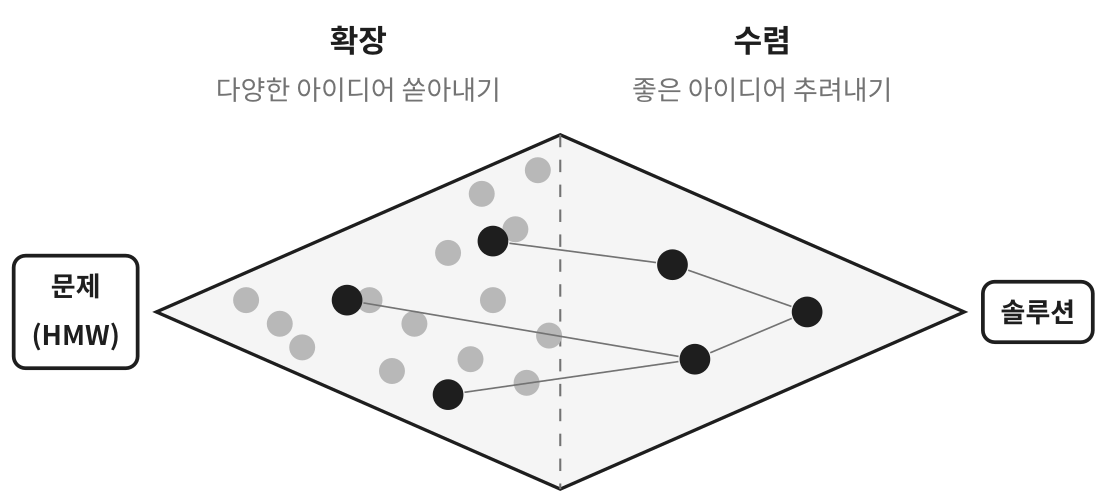
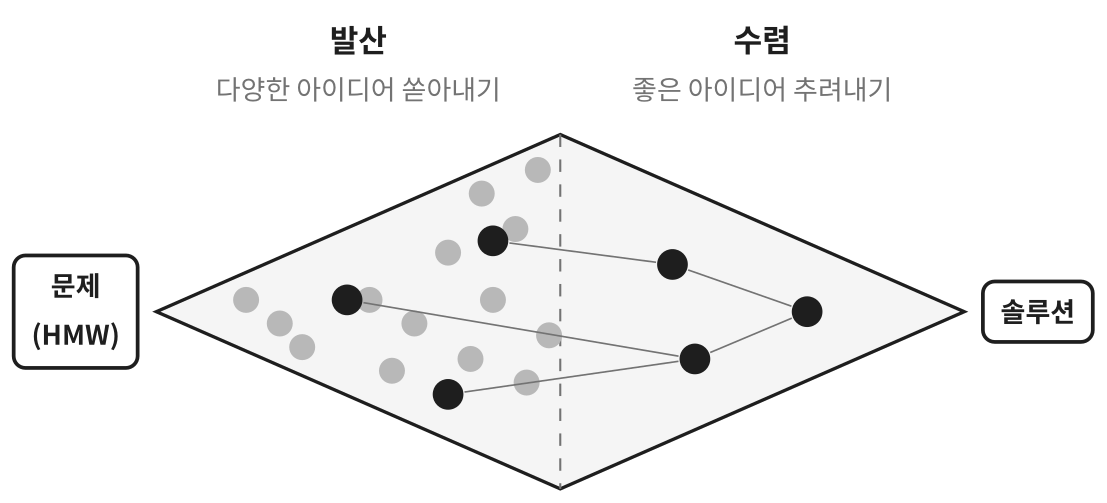
Unify terminology and notation across the book

diff --git a/book/cover.tex b/book/cover.tex
@@ -100,14 +100,14 @@
     \node[anchor=north west, text width=96mm, align=justify, inner sep=0,
           text=ink, font=\fontsize{8.5}{14.5}\selectfont]
       at (16, \trimH-28) {%
-        이 책은 사용자 중심으로 프로덕트를 디자인하는 방법을 설명한다.
+        이 소책자는 사용자 중심으로 제품을 디자인하는 방법을 설명한다.
         상황 파악에서 시작해 니즈 도출, 스케치, 프로토타이핑,
         그리고 디자인 커뮤니케이션과 리포트 작성까지,
         챕터를 따라가면 제품 하나를 디자인할 수 있도록 구성했다.\par\medskip
         \textsf{\bfseries 이런 분들에게}\par\smallskip
         · UX 디자이너로 일을 하고 싶은 학생 또는 디자이너\par
         · 구현 뿐만 아니라 서비스 설계까지 하고 싶은 개발자\par
-        · 사용자 중심으로 프로덕트를 만들고 싶은 모든 사람};
+        · 사용자 중심으로 제품을 만들고 싶은 모든 사람};
     \node[anchor=south west, inner sep=0, text=ink2,
           font=\sffamily\fontsize{7.5}{9}\selectfont]
       at (16, 16) {\booktitle\quad\bookauthor};

diff --git a/figures/hmw-voting.tex b/figures/hmw-voting.tex
@@ -13,7 +13,7 @@
   }
   \hmw{0}{0}{picked}{5}{어떻게 하면 주문 후에 고객들이 카페 안쪽으로 들어가게 할 수 있을까?}
   \hmw{1}{0}{picked}{4}{어떻게 하면 주문을 카페 안쪽에서 할 수 있을까?}
-  \hmw{2}{0}{picked}{3}{어떻게 하면 카페 밖에서도 주문을 할 수 있게 할까?}
+  \hmw{2}{0}{picked}{3}{어떻게 하면 카페 밖에서도 주문을 할 수 있을까?}
   \hmw{0}{1}{card}{2}{어떻게 하면 음료가 나오는 시간을 고객이 알 수 있을까?}
   \hmw{1}{1}{card}{1}{어떻게 하면 메뉴 고민 시간을 줄일 수 있을까?}
   \hmw{2}{1}{card}{1}{어떻게 하면 결제를 더 빨리 끝낼 수 있을까?}

diff --git a/figures/diverge-converge.tex b/figures/diverge-converge.tex
@@ -28,7 +28,7 @@
   \node[endpt, anchor=east] at ($(L)+(-1.5mm,0)$) {문제\\(HMW)};
   \node[endpt, anchor=west] at ($(R)+(1.5mm,0)$) {솔루션};
 
-  \node[font=\figtext\bfseries, anchor=south] at (18mm,20.5mm) {확장};
+  \node[font=\figtext\bfseries, anchor=south] at (18mm,20.5mm) {발산};
   \node[font=\figsmall, text=mid, anchor=south] at (18mm,16.5mm) {다양한 아이디어 쏟아내기};
   \node[font=\figtext\bfseries, anchor=south] at (54mm,20.5mm) {수렴};
   \node[font=\figsmall, text=mid, anchor=south] at (54mm,16.5mm) {좋은 아이디어 추려내기};

diff --git a/chapter4.md b/chapter4.md
@@ -1,10 +1,10 @@
 # Chapter 4: Low-fi 프로토타이핑
 
-이제 직접 프로덕트를 구현해 볼 차례이다. 하지만 바로 판매 또는 배포할 수 있는 수준의 프로덕트를 만들지 않는다. 디자인팀이 현재까지 디자인한 프로덕트가 실제로 디자인팀이 원하는 사용자 경험을 제공하는지 테스트를 할 필요가 있다. 그 첫 단계가 저수준(Low-fi) 프로토타이핑이다. 저수준 프로토타이핑은 최소한의 비용으로 프로덕트가 제공할 경험을 간접적으로 체험할 수 있는 프로토타입을 만드는 것을 말한다. 이 과정을 통해서 디자인에 문제가 없는지 기초적인 수준에서 확인을 하고 문제가 있는 경우 수정을 한다.
+이제 직접 제품을 구현해 볼 차례이다. 하지만 바로 판매 또는 배포할 수 있는 수준의 제품을 만들지 않는다. 디자인팀이 현재까지 디자인한 제품이 실제로 디자인팀이 원하는 사용자 경험을 제공하는지 테스트를 할 필요가 있다. 그 첫 단계가 저충실도 (Low-fi) 프로토타이핑이다. 저충실도 프로토타이핑은 최소한의 비용으로 제품이 제공할 경험을 간접적으로 체험할 수 있는 프로토타입을 만드는 것을 말한다. 이 과정을 통해서 디자인에 문제가 없는지 기초적인 수준에서 확인을 하고 문제가 있는 경우 수정을 한다.
 
 ## 페이퍼 프로토타입
 
-소프트웨어 제품에서 많이 사용하는 방법은 페이퍼 프로토타이핑이다. 페이퍼 프로토타이핑은 종이로 인터페이스를 구성하고, 사람이 종이 인터페이스를 직접 조작하며 소프트웨어를 프로토타이핑하는 방식이다. [한메일의 페이퍼 프로토타입 영상](https://youtu.be/GrV2SZuRPv0)을 보면 직관적으로 이해가 될 것이다. 영상을 보면 종이로 만들어진 인터페이스가 있고 사용자가 손으로 인터페이스를 조작한다. 그러면 다른 사람이 컴퓨터가 되어서 인터페이스를 바꾼다. 이러한 과정을 통해서 프로덕트를 사용하는 경험은 어떤지, 사용성의 문제는 없는지 디자인 초기 단계에서 확인할 수 있다.
+소프트웨어 제품에서 많이 사용하는 방법은 페이퍼 프로토타이핑이다. 페이퍼 프로토타이핑은 종이로 인터페이스를 구성하고, 사람이 종이 인터페이스를 직접 조작하며 소프트웨어를 프로토타이핑하는 방식이다. [한메일의 페이퍼 프로토타입 영상](https://youtu.be/GrV2SZuRPv0)을 보면 직관적으로 이해가 될 것이다. 영상을 보면 종이로 만들어진 인터페이스가 있고 사용자가 손으로 인터페이스를 조작한다. 그러면 다른 사람이 컴퓨터가 되어서 인터페이스를 바꾼다. 이러한 과정을 통해서 제품을 사용하는 경험은 어떤지, 사용성의 문제는 없는지 디자인 초기 단계에서 확인할 수 있다.
 
 ![한메일 페이퍼 프로토타입 영상의 한 장면. 출처: 윤석찬, 「한메일 종이 Ajax UX 프로토타입」, YouTube, 2007 (0:14–0:20)](img/video-hanmail-paper-prototype.png)
 
@@ -12,20 +12,20 @@
 
 위와 같이 페이퍼 프로토타입을 만들었으면, 프로토타입을 통하여 사용성을 평가해야 한다. 여기서 말하는 사용성은 넓은 범위의 사용성을 의미한다. 인터페이스의 문제를 파악하는 것부터 아이디어 자체에 대한 평가까지 이루어져야 한다.
 
-사용성 평가에서 중요한 것은 다른 과정들과 마찬가지로 목적을 분명하게 하는 것이다. 그에 따라서 어떤 질문들을 해야 할지 정해지고 사용성 평가의 방식이 정해진다. 전반적인 틀은 평가 참가자가 프로토타입을 사용하게 해보고 참가자를 통해서 디자인 팀은 궁금한 점들을 해소하는 것이다. 디자인팀은 참가자에게 직접적인 질문을 할 수도 있고 관찰을 할 수도 있다. 관련해서 다양한 방법론들이 있는데, 앞서 소개한 '[디자인 방법론 불변의 법칙 100가지](https://product.kyobobook.co.kr/detail/S000001226665)', '[유저 리서치: UX를 위한 사용자 조사의 모든 것](https://product.kyobobook.co.kr/detail/S000001913024)'와 같은 책들에 구체적인 방법론들이 소개되어 있다.
+사용성 평가에서 중요한 것은 다른 과정들과 마찬가지로 목적을 분명하게 하는 것이다. 그에 따라서 어떤 질문들을 해야 할지 정해지고 사용성 평가의 방식이 정해진다. 전반적인 틀은 평가 참가자가 프로토타입을 사용하게 해보고 참가자를 통해서 디자인팀은 궁금한 점들을 해소하는 것이다. 디자인팀은 참가자에게 직접적인 질문을 할 수도 있고 관찰을 할 수도 있다. 관련해서 다양한 방법론들이 있는데, 앞서 소개한 '[디자인 방법론 불변의 법칙 100가지](https://product.kyobobook.co.kr/detail/S000001226665)', '[유저 리서치: UX를 위한 사용자 조사의 모든 것](https://product.kyobobook.co.kr/detail/S000001913024)'와 같은 책들에 구체적인 방법론들이 소개되어 있다.
 
 ## 경험 프로토타이핑
 
-만약 프로덕트가 물리적인 요소 (공간이나 물체)를 포함한다면 사용자 경험을 온전히 제공하는 것이 어려울 수 있다. `경험커피`의 경우에도 문제 자체가 공간과 얽혀 있기 때문에 저수준 프로토타입을 테스트하더라도 카페 공간 내에서 실제 사용자 동선을 고려할 필요가 있다. 이런 상황에 알맞은 디자인 방법으로는 [경험 프로토타이핑 (Experience Prototyping)](https://dl.acm.org/doi/pdf/10.1145/347642.347802)이 있다. 경험 프로토타이핑은 디자인하고자 하는 경험의 단순한 버전을 쉽고 빠르게 경험하는 것이다. 그 과정을 통해서 최종적으로 디자인하고자 하는 경험이 디자인팀이 원하는 경험인지 아닌지 미리 판단을 할 수 있다. [Palm Pilot](<https://en.wikipedia.org/wiki/Palm_(PDA)>)을 만들 당시에 모바일 기기가 널리 퍼져있던 시기가 아니었기에 PDA를 사용하는 경험이 어떨지 알 수가 없었다. 그러한 경험을 _프로토타이핑_ 해보기 위해서 [Jeff Hawkins는 비슷한 크기의 나무 블록을 들고 다니면서 동작하는 Palm Pilot처럼 사용해 보았다고 한다](https://albertosavoia.medium.com/the-palm-pilot-story-1a3424d2ffe4). Google 글래스도 [비슷한 디자인 과정을 거쳐서](https://youtu.be/d5_h1VuwD6g) 디자인되었다. [Rapid Prototyping](https://maze.co/blog/rapid-prototyping/)이라는 개념도 있는데 궁극적인 목적은 유사하다.
+만약 제품이 물리적인 요소 (공간이나 물체)를 포함한다면 사용자 경험을 온전히 제공하는 것이 어려울 수 있다. `경험커피`의 경우에도 문제 자체가 공간과 얽혀 있기 때문에 저충실도 프로토타입을 테스트하더라도 카페 공간 내에서 실제 사용자 동선을 고려할 필요가 있다. 이런 상황에 알맞은 디자인 방법으로는 [경험 프로토타이핑 (Experience Prototyping)](https://dl.acm.org/doi/pdf/10.1145/347642.347802)이 있다. 경험 프로토타이핑은 디자인하고자 하는 경험의 단순한 버전을 쉽고 빠르게 경험하는 것이다. 그 과정을 통해서 최종적으로 디자인하고자 하는 경험이 디자인팀이 원하는 경험인지 아닌지 미리 판단을 할 수 있다. [Palm Pilot](<https://en.wikipedia.org/wiki/Palm_(PDA)>)을 만들 당시에 모바일 기기가 널리 퍼져있던 시기가 아니었기에 PDA를 사용하는 경험이 어떨지 알 수가 없었다. 그러한 경험을 _프로토타이핑_ 해보기 위해서 [Jeff Hawkins는 비슷한 크기의 나무 블록을 들고 다니면서 동작하는 Palm Pilot처럼 사용해 보았다고 한다](https://albertosavoia.medium.com/the-palm-pilot-story-1a3424d2ffe4). 구글 글래스도 [비슷한 디자인 과정을 거쳐서](https://youtu.be/d5_h1VuwD6g) 디자인되었다. [Rapid Prototyping](https://maze.co/blog/rapid-prototyping/)이라는 개념도 있는데 궁극적인 목적은 유사하다.
 
 ![구글 글래스의 첫 프로토타입. 옷걸이, 시트 프로텍터, 피코 프로젝터, 넷북으로 만들었다. 출처: Tom Chi, 「Rapid prototyping Google Glass」, TED-Ed, 2013 (1:24)](img/video-glass-rule1.png)
 
-사용성 평가나 경험 프로토타이핑을 통해서 문제가 발생을 한다면 문제가 모두 해결될 때까지 프로덕트 디자인을 수정하고 다시 이 과정을 수행해야 한다.
+사용성 평가나 경험 프로토타이핑을 통해서 문제가 발생을 한다면 문제가 모두 해결될 때까지 제품 디자인을 수정하고 다시 이 과정을 수행해야 한다.
 
 ## 제약 사항 (Constraints)
 
-제품을 만드는 상황에서도 제약사항이 많이 생긴다. 기존에 존재하는 프로덕트 내에서 하위 프로덕트를 만든다고 한다면, 당연히 상위 프로덕트에 의한 제약사항들이 생길 수 있다. 인스타그램에서 스토리 프로덕트를 만든다고 생각해보자. 인스타그램 고유의 틀을 벗어나는 프로덕트를 만들 수는 없다. 제로 상태에서 새로운 프로덕트를 만든다고 해도 마찬가지다. 기술력이 부족할 수도 있고, 자본이 없을 수도 있고, 시간이 촉박할 수도 있다. 제품을 만들기 위한 리소스는 항상 제한적이다. 이렇게 제약 사항은 디자인에 필수불가결한 존재이다. 제약 사항 때문에 디자인을 하는 것이 어렵다고 생각하겠지만 제약 사항이 없으면 디자인도 필요가 없다. 디자인은 제약사항 속에서 최적의 답을 찾는 과정이다.
+제품을 만드는 상황에서도 제약 사항이 많이 생긴다. 기존에 존재하는 제품 내에서 하위 제품을 만든다고 한다면, 당연히 상위 제품에 의한 제약 사항들이 생길 수 있다. 인스타그램에서 스토리라는 하위 제품을 만든다고 생각해보자. 인스타그램 고유의 틀을 벗어나는 제품을 만들 수는 없다. 제로 상태에서 새로운 제품을 만든다고 해도 마찬가지다. 기술력이 부족할 수도 있고, 자본이 없을 수도 있고, 시간이 촉박할 수도 있다. 제품을 만들기 위한 리소스는 항상 제한적이다. 이렇게 제약 사항은 디자인에 필수불가결한 존재이다. 제약 사항 때문에 디자인을 하는 것이 어렵다고 생각하겠지만 제약 사항이 없으면 디자인도 필요가 없다. 디자인은 제약 사항 속에서 최적의 답을 찾는 과정이다.
 
-그럼 이러한 제약 사항을 어느 단계에서 고려해야 할까? 제약 사항은 제품을 구체화해 나가는 과정에서 점진적으로 고려하는 것이 좋다. 그 시작점이 첫 프로토타이핑을 하는 과정이다. 프로토타이핑을 하면서 현재 우리가 가지고 있는 불변의 제약 사항들은 무엇인지 고민해 보고 그것을 고려해서 프로토타이핑을 해야 한다. 실제로 구글 글래스의 예시도 보면 찰흙을 이용해서 구글 글래스에 들어갈 전자 부품을 흉내 내는데 그것이 시작 단계에서 구글 글래스 디자인에 중요한 역할을 한다. 마법과 같이 기존의 안경 속에 컴퓨터와 배터리가 모두 들어간다고 가정을 하고 프로토타이핑을 하지 않는다. 하지만 그렇다고 해서 너무 디자인 프로세스 초반부터 제약사항을 많이 고려하면 새로운 아이디어들을 전개하는 것이 어려울 수 있다. 구글 글래스의 예시를 보면 전자 부품의 무게 정도만 고려하지 어떤 모양으로 안경에 부착되어야 하는지까지는 설계하지 않는다. 그것은 이후 단계에서 결정해도 되는 것이기 때문이다. 단지 안경의 어디에 위치하는 것이 좋은지를 알아보는 정도로 그친다. 이렇게 적절한 선의 제약사항들을 고려해서 프로토타이핑을 해야 한다. 이후 디자인 프로세스에서는 더 많은 제약 사항들을 점진적으로 적용하며 디자인을 해 나가야 한다.
+그럼 이러한 제약 사항을 어느 단계에서 고려해야 할까? 제약 사항은 제품을 구체화해 나가는 과정에서 점진적으로 고려하는 것이 좋다. 그 시작점이 첫 프로토타이핑을 하는 과정이다. 프로토타이핑을 하면서 현재 우리가 가지고 있는 불변의 제약 사항들은 무엇인지 고민해 보고 그것을 고려해서 프로토타이핑을 해야 한다. 실제로 구글 글래스의 예시도 보면 찰흙을 이용해서 구글 글래스에 들어갈 전자 부품을 흉내 내는데 그것이 시작 단계에서 구글 글래스 디자인에 중요한 역할을 한다. 마법과 같이 기존의 안경 속에 컴퓨터와 배터리가 모두 들어간다고 가정을 하고 프로토타이핑을 하지 않는다. 하지만 그렇다고 해서 너무 디자인 프로세스 초반부터 제약 사항을 많이 고려하면 새로운 아이디어들을 전개하는 것이 어려울 수 있다. 구글 글래스의 예시를 보면 전자 부품의 무게 정도만 고려하지 어떤 모양으로 안경에 부착되어야 하는지까지는 설계하지 않는다. 그것은 이후 단계에서 결정해도 되는 것이기 때문이다. 단지 안경의 어디에 위치하는 것이 좋은지를 알아보는 정도로 그친다. 이렇게 적절한 선의 제약 사항들을 고려해서 프로토타이핑을 해야 한다. 이후 디자인 프로세스에서는 더 많은 제약 사항들을 점진적으로 적용하며 디자인을 해 나가야 한다.
 
 ![찰흙, 철사, 종이, 저울로 부품의 무게와 위치를 가늠하는 프로토타이핑. 출처: Tom Chi, 「Rapid prototyping Google Glass」, TED-Ed, 2013 (5:18)](img/video-glass-rule3.png)

diff --git a/README.md b/README.md
@@ -1,12 +1,12 @@
 # 프로덕트를 처음부터 디자인하는 방법
 
-이 글 모음은 사용자 중심으로 프로덕트를 디자인하는 방법들을 설명한다. 책의 형태를 빌려 챕터로 구분되어 있다. 책은 아니지만 편의상 이 글 모음을 소책자라 일컫겠다.
+이 글 모음은 사용자 중심으로 제품을 디자인하는 방법들을 설명한다. 책의 형태를 빌려 챕터로 구분되어 있다. 책은 아니지만 편의상 이 글 모음을 소책자라 일컫겠다.
 
 ## 소책자의 범위
 
-이 책에서 말하는 프로덕트는 주로 IT 프로덕트들을 말한다. 소프트웨어가 되겠다. 하지만 하드웨어 프로덕트에도 어느 정도 적용 가능한 부분이 있지 않을까 생각한다. 더불어서 이 책에서 말하는 디자인은 **설계**의 의미를 가지고 있다. 미적인 디자인에 대한 내용을 다루지는 않는다. 누군가는 이 프로세스를 기획이라고 말하기도 하지만 나는 개인적으로 기획이라는 단어보다는 설계라는 단어가 적절하다고 생각한다. 기획은 디자인 과정의 일부일 뿐이다.
+이 소책자에서 말하는 제품은 주로 IT 제품들을 말한다. 소프트웨어가 되겠다. 하지만 하드웨어 제품에도 어느 정도 적용 가능한 부분이 있지 않을까 생각한다. 더불어서 이 소책자에서 말하는 디자인은 **설계**의 의미를 가지고 있다. 미적인 디자인에 대한 내용을 다루지는 않는다. 누군가는 이 프로세스를 기획이라고 말하기도 하지만 나는 개인적으로 기획이라는 단어보다는 설계라는 단어가 적절하다고 생각한다. 기획은 디자인 과정의 일부일 뿐이다.
 
-프로덕트를 디자인하는 방법은 여러 가지가 있는데, 이 소책자는 **사용자 중심** 프로덕트 디자인 방법에 대해 다룬다. 사용자 중심이라는 단어가 잘 와닿지 않을 수 있다. 사용자 중심의 의미는 디자인 과정에서 사용자의 의견을 적극적으로 반영하는 것을 말한다. 하지만 이것은 사용자가 원하는 것을 만들어 주는 것과는 다르다. 사용자 중심 디자인이 아닌 방법의 예시로는 직관이나 고찰을 통한 장인정신에 입각한 디자인이 있을 수 있다. 분명 유효한 방법이라고 생각하지만 매우 다른 성격의 방법이기에 여기에서 다루지 않는다.
+제품을 디자인하는 방법은 여러 가지가 있는데, 이 소책자는 **사용자 중심** 프로덕트 디자인 방법에 대해 다룬다. 사용자 중심이라는 단어가 잘 와닿지 않을 수 있다. 사용자 중심의 의미는 디자인 과정에서 사용자의 의견을 적극적으로 반영하는 것을 말한다. 하지만 이것은 사용자가 원하는 것을 만들어 주는 것과는 다르다. 사용자 중심 디자인이 아닌 방법의 예시로는 직관이나 고찰을 통한 장인정신에 입각한 디자인이 있을 수 있다. 분명 유효한 방법이라고 생각하지만 매우 다른 성격의 방법이기에 여기에서 다루지 않는다.
 
 사용자 중심 디자인은 제품의 상업적 성공을 보장하지는 않는다. 상업적 성공에는 정말 다양한 요인들이 영향을 미친다. 타이밍도 중요하고 마케팅과 운영도 중요하다. 이런 요소들은 중요하지만 프로덕트 디자인과 관련이 적기 때문에 다루지 않는다. 정리하면, 사용자 중심 디자인은 좋은 제품을 만들기 위한 방법이고, 좋은 제품이 곧 상업적 성공으로 이어지는 것은 아니다.
 
@@ -14,42 +14,42 @@
 
 디자인뿐만 아니라 구현도 매우 중요하다. 만들지 않는다면 의미가 없는 디자인이라고 생각한다. 하지만 여기에서는 구현에 대한 이야기는 하지 않는다. 다른 곳에서 이야기를 할 수 있지 않을까 생각한다.
 
-책의 상당 부분은 저자의 생각이다. 특히 단정적으로 이야기하는 문장들이 의견이 아니라 사실처럼 느껴질 수 있는데, 레퍼런스가 없는 내용은 모두 저자의 생각이다. 예를 들어 "도메인 지식을 습득하고 이해관계자를 파악하는 것은 모든 상황에서 필요하다."와 같은 문장이 그렇다. 레퍼런스가 있는 내용은 레퍼런스를 표기했다.
+소책자의 상당 부분은 저자의 생각이다. 특히 단정적으로 이야기하는 문장들이 의견이 아니라 사실처럼 느껴질 수 있는데, 레퍼런스가 없는 내용은 모두 저자의 생각이다. 예를 들어 "도메인 지식을 습득하고 이해관계자를 파악하는 것은 모든 상황에서 필요하다."와 같은 문장이 그렇다. 레퍼런스가 있는 내용은 레퍼런스를 표기했다.
 
-책에서 `디자인팀`이라는 표현을 사용하는데 디자이너만을 지칭하는 것은 아니다. 프로덕트를 디자인하는 팀을 의미하며 이 팀에는 개발자, 디자이너, 마케터 등 여러 전문가들이 포함될 수 있고, 다양한 사람들이 포함될수록 좋다.
+소책자에서 `디자인팀`이라는 표현을 사용하는데 디자이너만을 지칭하는 것은 아니다. 제품을 디자인하는 팀을 의미하며 이 팀에는 개발자, 디자이너, 마케터 등 여러 전문가들이 포함될 수 있고, 다양한 사람들이 포함될수록 좋다.
 
 ## 누구를 위한 소책자인가?
 
-이 책은 회사에서 프로덕트를 디자인해 본 경험이 별로 없는 사람들을 위해서 썼다. 다음과 같은 사람들에게 도움이 될 수 있을 것이라 생각한다.
+이 소책자는 회사에서 제품을 디자인해 본 경험이 별로 없는 사람들을 위해서 썼다. 다음과 같은 사람들에게 도움이 될 수 있을 것이라 생각한다.
 
 - UX 디자이너로 일을 하고 싶은 학생 또는 디자이너
 - 구현뿐만 아니라 서비스 설계까지 하고 싶은 개발자
-- 사용자 중심으로 프로덕트를 만들고 싶은 모든 사람
+- 사용자 중심으로 제품을 만들고 싶은 모든 사람
 
 ## 목차
 
 1. [상황 파악](chapter1.md)
 2. [니즈 도출](chapter2.md)
 3. [솔루션 및 사용자 경험 스케치](chapter3.md)
-4. [low-fi 프로토타이핑](chapter4.md)
-5. [mid-fi 프로토타이핑](chapter5.md)
+4. [Low-fi 프로토타이핑](chapter4.md)
+5. [Mid-fi 프로토타이핑](chapter5.md)
 6. [디자인 커뮤니케이션하기](chapter6.md)
-7. [리포트 작성](chapter7.md)
+7. [디자인 리포트 작성](chapter7.md)
 8. [끝없는 과정](chapter8.md)
 
 ### 구성에 관하여
 
-챕터를 따라 갔을 때 제품 하나를 디자인할 수 있는 형태로 구성하였다. 이러한 구성은 '[스프린트 - 제이크 냅 , 존 제라츠키 , 브레이든 코위츠](https://product.kyobobook.co.kr/detail/S000000597320)' 책에서 차용했다. 실제로 이 책의 내용을 많이 참고해서 이 소책자를 썼다.
+챕터를 따라 갔을 때 제품 하나를 디자인할 수 있는 형태로 구성하였다. 이러한 구성은 '[스프린트 - 제이크 냅, 존 제라츠키, 브레이든 코위츠](https://product.kyobobook.co.kr/detail/S000000597320)' 책에서 차용했다. 실제로 이 책의 내용을 많이 참고해서 이 소책자를 썼다.
 
 다만, 실제로 이런 프로세스를 따라가보면 알겠지만 선형적으로 진행되지는 않는다. 세 번째 단계를 했다가 다시 첫 단계로 가야 할 것 같을 수 있다. 그런 경우에는 다시 돌아갔다가 오는 것이 좋다. 디자인 프로세스가 어려운 이유는 선형적이지 않기 때문이다. 하지만 디자인팀은 보통 일이 단계별로 진행되기를 원한다. 바람과 실제 일어나는 일의 괴리가 우리를 불안하고 괴롭게 만들지만 원래 디자인은 비선형적인 프로세스라는 것을 이해하면 그런 불안감을 조금 덜 수 있다.
 
 ## 프로덕트 디자인에 대한 다른 글들과의 차이점
 
-프로덕트 디자인, UX 리서치에 대해서 이야기하는 자료나 글들은 매우 많고 그 범위가 방대하다. 하지만 경험이 별로 없는 상황에서 상업 제품을 만드는 사람을 위한 자료는 부족하다고 느꼈다. 디자인의 일반론에 대한 이야기를 하거나 ('[도널드 노먼의 디자인 심리학 - 도널드 노먼](https://product.kyobobook.co.kr/detail/S000001912962)', '[좋은 서비스 디자인 - 루 다운](https://product.kyobobook.co.kr/detail/S000001913039)'), 리서치에 초점을 맞추거나 ('[유저 리서치 - 스테파니 마시](https://product.kyobobook.co.kr/detail/S000001913024)'), 특정 방법론에 집중하거나 ('[고작 다섯 명이 한 말을 어떻게 믿어요? - 송라영](https://product.kyobobook.co.kr/detail/S000214928147)', '[A/B 테스트 - 론 코하비 , 다이앤 탕 , 야 쉬](https://product.kyobobook.co.kr/detail/S000060625360)'), 많은 경험을 요하는 방법('[스프린트 - 제이크 냅 , 존 제라츠키 , 브레이든 코위츠](https://product.kyobobook.co.kr/detail/S000000597320)')을 제시한다. 읽고 바로 행동으로 옮길 수 있는 자료가 있으면 좋겠다고 생각을 했다. 내가 알고 있는 제일 유사한 책은 '[린 UX - 제프 고델프 , 조시 세이던](https://product.kyobobook.co.kr/detail/S000211625721)' 이다. 다만 순서대로 따라가면서 프로젝트를 진행하는 것이 쉽지 않다고 느꼈다. '린 UX'보다 더 단순하면서 순서대로 따라가며 프로젝트를 진행할 수 있는 소책자가 필요하다고 생각했다.
+프로덕트 디자인, UX 리서치에 대해서 이야기하는 자료나 글들은 매우 많고 그 범위가 방대하다. 하지만 경험이 별로 없는 상황에서 상업 제품을 만드는 사람을 위한 자료는 부족하다고 느꼈다. 디자인의 일반론에 대한 이야기를 하거나 ('[도널드 노먼의 디자인 심리학 - 도널드 노먼](https://product.kyobobook.co.kr/detail/S000001912962)', '[좋은 서비스 디자인 - 루 다운](https://product.kyobobook.co.kr/detail/S000001913039)'), 리서치에 초점을 맞추거나 ('[유저 리서치 - 스테파니 마시](https://product.kyobobook.co.kr/detail/S000001913024)'), 특정 방법론에 집중하거나 ('[고작 다섯 명이 한 말을 어떻게 믿어요? - 송라영](https://product.kyobobook.co.kr/detail/S000214928147)', '[A/B 테스트 - 론 코하비, 다이앤 탕, 야 쉬](https://product.kyobobook.co.kr/detail/S000060625360)'), 많은 경험을 요하는 방법('[스프린트 - 제이크 냅, 존 제라츠키, 브레이든 코위츠](https://product.kyobobook.co.kr/detail/S000000597320)')을 제시한다. 읽고 바로 행동으로 옮길 수 있는 자료가 있으면 좋겠다고 생각을 했다. 내가 알고 있는 제일 유사한 책은 '[린 UX - 제프 고델프, 조시 세이던](https://product.kyobobook.co.kr/detail/S000211625721)' 이다. 다만 순서대로 따라가면서 프로젝트를 진행하는 것이 쉽지 않다고 느꼈다. '린 UX'보다 더 단순하면서 순서대로 따라가며 프로젝트를 진행할 수 있는 소책자가 필요하다고 생각했다.
 
 이 소책자는 디자인 기법들에 대해서 자세히 이야기하지 않는다. 거시적인 이야기가 많고, 구체적인 디자인 기법들을 설명할 때는 저자가 쉽게 변형한 방법들을 이야기한다. 그래서 내용이 매우 짧고 단순하다. 이 소책자는 더 깊은 디자인의 세계로 들어가기 위한 발판이 될 수 있을 것이라 생각한다. 더 깊은 내용이 필요한 경우에는 그 내용을 여기에 담지는 않고 내용들을 얻을 수 있는 다른 자료들을 소개한다. 위에서 이야기한 책들은 모두 좋은 책들이다. 위 책들이 더 구체적이고 정확하고 많은 내용들을 담고 있으니 프로덕트 디자인에 대해서 더 궁금하다면 읽어 보는 것을 추천한다.
 
-누구나 이 책에 부족한 부분에 대해 저자의 메일로 의견을 줄 수 있다. 다양한 내용들을 참고해서 이 소책자는 지속적으로 업데이트해 나갈 생각이다.
+누구나 이 소책자에 부족한 부분에 대해 저자의 메일로 의견을 줄 수 있다. 다양한 내용들을 참고해서 이 소책자는 지속적으로 업데이트해 나갈 생각이다.
 
 ## 저자
 

diff --git a/chapter5.md b/chapter5.md
@@ -1,15 +1,15 @@
 # Chapter 5: Mid-fi 프로토타이핑
 
-저수준 프로토타입을 통해서 프로덕트의 기초적인 틀을 잡았다면 중간수준 (Mid-fi) 프로토타입을 통해서는 디테일한 부분을 디자인한다. 이 과정에서는 좀 더 실제 프로덕트와 가까운 형태로 프로토타입을 만들고 사용성 테스트를 진행한다. 이 과정에서는 주로 [Figma](https://www.figma.com/)와 같은 프로토타이핑 툴을 사용하는 것이 좋다. 이런 툴들은 손쉽게 코딩 없이 실제 프로덕트와 가까운 프로토타입을 만들 수 있게 해주기 때문이다.
+저충실도 프로토타입을 통해서 제품의 기초적인 틀을 잡았다면 중충실도 (Mid-fi) 프로토타입을 통해서는 디테일한 부분을 디자인한다. 이 과정에서는 좀 더 실제 제품과 가까운 형태로 프로토타입을 만들고 사용성 평가를 진행한다. 이 과정에서는 주로 [Figma](https://www.figma.com/)와 같은 프로토타이핑 툴을 사용하는 것이 좋다. 이런 툴들은 손쉽게 코딩 없이 실제 제품과 가까운 프로토타입을 만들 수 있게 해주기 때문이다.
 
-이 단계에서 얼마나 실제와 가깝게 만들어야 하는지 궁금할 수 있다. 그것은 무엇을 검증해야 하는가에 따라서 달라진다. 인터페이스의 정보 구조나 컴포넌트 수준의 인터페이스 검증이 필요하다면 [스타일 없이 뼈대만 있는 인터페이스](https://www.figma.com/community/file/1075811850250564922/paper-wireframe-kit)를 사용해도 괜찮다. 하지만 만약 스타일이 사용자 경험에 중요하다고 판단이 되면 구현하고자 하는 스타일이 적용된 중간수준 프로토타입을 만들어야 할 것이다.
+이 단계에서 얼마나 실제와 가깝게 만들어야 하는지 궁금할 수 있다. 그것은 무엇을 검증해야 하는가에 따라서 달라진다. 인터페이스의 정보 구조나 컴포넌트 수준의 인터페이스 검증이 필요하다면 [스타일 없이 뼈대만 있는 인터페이스](https://www.figma.com/community/file/1075811850250564922/paper-wireframe-kit)를 사용해도 괜찮다. 하지만 만약 스타일이 사용자 경험에 중요하다고 판단이 되면 구현하고자 하는 스타일이 적용된 중충실도 프로토타입을 만들어야 할 것이다.
 
 ![같은 키오스크 주문 화면의 세 가지 충실도](img/fidelity-comparison.png)
 
-보통의 회사라면 디자인 시스템이 있을 것이다. 디자인 시스템이 없더라도 인터페이스 컴포넌트들이 존재할 수 있다. 그러한 재료들을 사용하면 중간수준 프로토타입을 쉽고 빠르게 만들 수 있기 때문에 사용하고 싶을 것이다. 하지만 이 단계에서는 그러한 재료를 사용하지 않는 것을 추천한다. 이유는 두 가지다. 첫째, 중간수준 프로토타입은 중간수준다워야 한다. 만약 프로토타입이 지나치게 고수준으로 보인다면 피드백을 주는 사람이 어디까지 바꿀 수 있는 것이고 바꿀 수 없는 것인지 알기 어려울 수 있다. 그러면 바꾸고 싶은 부분이 있더라도 이미 완성되어 보여서 의견을 주지 않을 수 있고 폭넓은 피드백을 받기가 어렵다. 둘째, 기존에 있는 틀에 얽매이게 되어서 더 나은 디자인이 나오지 못할 수 있다. 충분히 고민을 할 수 있는 기회가 사라지는 것이다. 이것은 [디자인 시스템이 가지고 있는 한계점](https://youtu.be/BQXTt-NZ2Bs) 중 하나이다. 이 단계는 충분히 자유롭게 인터페이스를 탐색해 보고, 기존의 디자인 시스템에 한계가 드러난다면 개선을 결정해야 하는 단계이다.
+보통의 회사라면 디자인 시스템이 있을 것이다. 디자인 시스템이 없더라도 인터페이스 컴포넌트들이 존재할 수 있다. 그러한 재료들을 사용하면 중충실도 프로토타입을 쉽고 빠르게 만들 수 있기 때문에 사용하고 싶을 것이다. 하지만 이 단계에서는 그러한 재료를 사용하지 않는 것을 추천한다. 이유는 두 가지다. 첫째, 중충실도 프로토타입은 딱 중충실도만큼만 다듬어져 있어야 한다. 만약 프로토타입이 지나치게 고충실도로 보인다면 피드백을 주는 사람이 어디까지 바꿀 수 있는 것이고 바꿀 수 없는 것인지 알기 어려울 수 있다. 그러면 바꾸고 싶은 부분이 있더라도 이미 완성되어 보여서 의견을 주지 않을 수 있고 폭넓은 피드백을 받기가 어렵다. 둘째, 기존에 있는 틀에 얽매이게 되어서 더 나은 디자인이 나오지 못할 수 있다. 충분히 고민을 할 수 있는 기회가 사라지는 것이다. 이것은 [디자인 시스템이 가지고 있는 한계점](https://youtu.be/BQXTt-NZ2Bs) 중 하나이다. 이 단계는 충분히 자유롭게 인터페이스를 탐색해 보고, 기존의 디자인 시스템에 한계가 드러난다면 개선을 결정해야 하는 단계이다.
 
 ![디자인 시스템에 대한 한 디자이너의 말: 디자인에 접근하는 방식이 '가장 좋은 해결책은 무엇인가?'에서 '가진 것으로 무엇을 만들 수 있는가?'로 바뀌었다. 출처: Cam Worboys, 「The broken promises of design systems」, Config 2024, Figma (5:25)](img/video-design-system-quote.png)
 
 ## 사용성 평가
 
-중간수준 프로토타입을 사용해서도 사용성 평가가 필요하다. 이 과정에서는 저수준 프로토타입 사용성 평가보다 좀 더 디테일한 부분의 사용성을 평가해야 한다. 과정 자체는 저수준 프로토타입과 크게 다르지 않다. 다시 한번 강조하지만, 이 단계에서 사용성 이슈가 발견이 되면 다시 돌아가서 프로토타입을 개선하고 사용성 평가를 반복해야 한다.
+중충실도 프로토타입을 사용해서도 사용성 평가가 필요하다. 이 과정에서는 저충실도 프로토타입 사용성 평가보다 좀 더 디테일한 부분의 사용성을 평가해야 한다. 과정 자체는 저충실도 프로토타입과 크게 다르지 않다. 다시 한번 강조하지만, 이 단계에서 사용성 이슈가 발견이 되면 다시 돌아가서 프로토타입을 개선하고 사용성 평가를 반복해야 한다.

diff --git a/chapter6.md b/chapter6.md
@@ -1,9 +1,9 @@
 # Chapter 6: 디자인 커뮤니케이션하기
 
-지금까지의 디자인은 엄밀히 말하면 개념적인 수준의 디자인이다. 실제 구현을 위해서 정해져야 하는 것들은 무수히 많다. 먼저 지금까지 설계한 프로덕트를 회사에 구축되어 있는 디자인 시스템에 맞추어서 다시 정의해야 한다. 이 과정에서 디자인 시스템의 수정이 필요하면 수정도 해야 한다.
+지금까지의 디자인은 엄밀히 말하면 개념적인 수준의 디자인이다. 실제 구현을 위해서 정해져야 하는 것들은 무수히 많다. 먼저 지금까지 설계한 제품을 회사에 구축되어 있는 디자인 시스템에 맞추어서 다시 정의해야 한다. 이 과정에서 디자인 시스템의 수정이 필요하면 수정도 해야 한다.
 
 디자인 시스템을 매개로 한 개발자와 디자이너의 소통만으로도 굉장히 큰 주제다. 흥미로운 것은 개발자와 디자이너가 같은 사람이더라도 디자인과 개발 사이의 간극을 줄이기 어렵다는 점이다. 그리고 이 문제를 푸는 단 하나의 좋은 방법은 없다. Figma와 같은 다양한 툴들도 완벽하게 해결해 주지 못하고 있다. 이상적으로는 디자인과 구현에 대한 사항들이 어느 정도 구체적인 수준으로 **같이 정의되어 있는** 파일을 만들면 된다. 모두가 의사 결정을 하기 위해서 동일한 것을 볼 수 있게 되고 이것이 서로 다른 것을 보고 이야기하는 것보다 소통을 효율적으로 만들어 주기 때문이다. 단순하게 이야기하면 [single source of truth (SSOT)](https://en.wikipedia.org/wiki/Single_source_of_truth)를 만드는 것이다. 하지만 이런 문제를 해결해 주는 마법 같은 툴은 없다. 회사에서 사용하는 다양한 툴들을 활용해서 이러한 SSOT 파일을 만들고 관리하는 프로세스를 구축하는 것이 필요하다.
 
-중요한 것은 Figma와 같은 프로토타이핑 툴에서 실제 프로덕트와 유사한 수준으로 디자인을 했다고 하더라도 그 뒤에 구현까지 굉장히 많은 단계가 남아 있다는 것을 잊지 말아야 한다는 것이다. 그렇지 않으면 실제 구현으로 가는 과정에서 많은 갈등이 발생할 수 있다. 이것은 혼자 디자인과 개발을 한다고 해도 중요한 이슈이다. 디자인 파일을 보고 바로 코딩을 하다 보면 중간에 시스템의 구조를 바꾸어야 하는 일이 생긴다. 개발을 하기 전에 시스템의 구조를 설계하고 들어가야 하는 것은 인터페이스를 개발할 때도 마찬가지다. 인터페이스가 눈에 보이기 때문에 마치 설계가 되어 있다고 착각하게 되는데 디자인 파일은 눈에 보이는 구조를 의미할 뿐 소프트웨어 시스템의 구조를 설명하지는 않는다. 또 중요한 점은 이 과정을 디자이너와 개발자가 같이 진행해야 한다는 것이다. 구현을 하기 위한 인터페이스의 시스템을 설계하는 과정에서 디자인의 변형이 필요할 수도 있기 때문이다. 더불어서 위에서 이야기한 SSOT 파일을 수정해야 하기 때문에 같이 논의하는 게 필수적이다.
+중요한 것은 Figma와 같은 프로토타이핑 툴에서 실제 제품과 유사한 수준으로 디자인을 했다고 하더라도 그 뒤에 구현까지 굉장히 많은 단계가 남아 있다는 것을 잊지 말아야 한다는 것이다. 그렇지 않으면 실제 구현으로 가는 과정에서 많은 갈등이 발생할 수 있다. 이것은 혼자 디자인과 개발을 한다고 해도 중요한 이슈이다. 디자인 파일을 보고 바로 코딩을 하다 보면 중간에 시스템의 구조를 바꾸어야 하는 일이 생긴다. 개발을 하기 전에 시스템의 구조를 설계하고 들어가야 하는 것은 인터페이스를 개발할 때도 마찬가지다. 인터페이스가 눈에 보이기 때문에 마치 설계가 되어 있다고 착각하게 되는데 디자인 파일은 눈에 보이는 구조를 의미할 뿐 소프트웨어 시스템의 구조를 설명하지는 않는다. 또 중요한 점은 이 과정을 디자이너와 개발자가 같이 진행해야 한다는 것이다. 구현을 하기 위한 인터페이스의 시스템을 설계하는 과정에서 디자인의 변형이 필요할 수도 있기 때문이다. 더불어서 위에서 이야기한 SSOT 파일을 수정해야 하기 때문에 같이 논의하는 게 필수적이다.
 
 이 과정을 마무리하고 이후 과정을 개발팀에 넘기는 것을 흔히 [handoff](https://www.interaction-design.org/literature/topics/design-handoffs)라고 한다. 디자인팀에 개발자와 디자이너가 모두 같이 있으면 handoff 과정이 매우 자연스럽다. 디자인팀에 마케터도 함께 있었다면 마케팅팀도 최종 제품을 깊이 이해한 상태가 된다. 그래서 제품 디자인은 다양한 사람들이 모여서 하는 것이 좋다.

diff --git a/chapter3.md b/chapter3.md
@@ -1,12 +1,12 @@
 # Chapter 3: 솔루션 및 사용자 경험 스케치
 
-이 단계는 창의적인 생각들을 쏟아내고, 스케치를 통해서 소통하면서 좋은 프로덕트의 컨셉을 찾아 나가는 단계이다. 어떤 프로덕트를 만들면 앞에서 이야기한 문제를 해결할 수 있을지 고민하고 (솔루션) 그 프로덕트를 통해 문제가 해결된 모습이 우리가 원하는 모습인지 (사용자 경험) 확인한다.
+이 단계는 창의적인 생각들을 쏟아내고, 스케치를 통해서 소통하면서 좋은 제품의 컨셉을 찾아 나가는 단계이다. 어떤 제품을 만들면 앞에서 이야기한 문제를 해결할 수 있을지 고민하고 (솔루션) 그 제품을 통해 문제가 해결된 모습이 우리가 원하는 모습인지 (사용자 경험) 확인한다.
 
 ## 솔루션 스케치
 
-솔루션을 도출하는 과정은 창의적인 생각을 해야 하는 과정이다. 창의적인 생각을 돕는 방법들도 많이 존재한다. [창의적 도구 세트 (Creative Toolkits)](http://designmethod.korea.ac.kr/design-method/creative-toolkit/)를 활용하거나 [바디스토밍 (Bodystorming)](http://designmethod.korea.ac.kr/design-method/bodystorming/)과 같은 기법을 활용할 수도 있다. 하지만 이러한 기법보다 더 근본적인 접근은 **확장과 수렴**이다. 확장은 다양한 아이디어들을 쏟아내는 과정이고 수렴은 좋은 아이디어들을 추려내는 과정이다. 다양한 디자인 방법론들은 이 두 과정을 더 쉽게 해준다. 확장과 수렴이라는 틀 아래 다양한 기법들을 차용하거나 만들어서 시도해 보면 좋다.
+솔루션을 도출하는 과정은 창의적인 생각을 해야 하는 과정이다. 창의적인 생각을 돕는 방법들도 많이 존재한다. [창의적 도구 세트 (Creative Toolkits)](http://designmethod.korea.ac.kr/design-method/creative-toolkit/)를 활용하거나 [바디스토밍 (Bodystorming)](http://designmethod.korea.ac.kr/design-method/bodystorming/)과 같은 기법을 활용할 수도 있다. 하지만 이러한 기법보다 더 근본적인 접근은 **발산과 수렴**이다. 발산은 다양한 아이디어들을 쏟아내는 과정이고 수렴은 좋은 아이디어들을 추려내는 과정이다. 다양한 디자인 방법론들은 이 두 과정을 더 쉽게 해준다. 발산과 수렴이라는 틀 아래 다양한 기법들을 차용하거나 만들어서 시도해 보면 좋다.
 
-![확장과 수렴](img/diverge-converge.png)
+![발산과 수렴](img/diverge-converge.png)
 
 '[스프린트](https://product.kyobobook.co.kr/detail/S000000597320)' 책에서 `four-step sketch`라는 유용한 방법을 제시한다. 총 네 단계로 이루어지는데 먼저 20분 동안 주요 정보들을 수집하고, 러프한 아이디어들을 20분 동안 생각한 후에, 8분 동안 8개의 서로 다른 아이디어들을 구체화한 후, 마지막으로 30분 동안 더 구체적인 하나의 솔루션을 만든다. 이렇게 하고 나서 서로 아이디어를 공유한다.
 
@@ -20,6 +20,6 @@
 
 ## 사용자 경험 스케치
 
-위 과정에서 도출하는 솔루션은 대략적인 프로덕트의 모습일 것이다. 그러면 그 프로덕트가 어떠한 사용자 경험을 만들 수 있는지도 설계해 보고 그것이 좋은 사용자 경험이 될지 판단하는 과정이 필요하다. 이를 위해서 우리는 경험을 스케치할 필요가 있다. 제품이 어떻게 생겼을지 파악하기 위해서 제품을 스케치를 하는 것처럼 경험이 어떤 모습일지 파악하기 위해서 경험을 스케치하는 것이다.
+위 과정에서 도출하는 솔루션은 대략적인 제품의 모습일 것이다. 그러면 그 제품이 어떠한 사용자 경험을 만들 수 있는지도 설계해 보고 그것이 좋은 사용자 경험이 될지 판단하는 과정이 필요하다. 이를 위해서 우리는 경험을 스케치할 필요가 있다. 제품이 어떻게 생겼을지 파악하기 위해서 제품을 스케치를 하는 것처럼 경험이 어떤 모습일지 파악하기 위해서 경험을 스케치하는 것이다.
 
-경험을 스케치하기 위해서 유용한 방법은 [스토리보드](https://www.nngroup.com/articles/storyboards-visualize-ideas/)를 그려보는 것이다. 스토리보드는 프로덕트가 완성되었을 때 사용자의 경험을 만화와 같이 컷 단위의 스케치로 그리는 것을 이야기한다.
+경험을 스케치하기 위해서 유용한 방법은 [스토리보드](https://www.nngroup.com/articles/storyboards-visualize-ideas/)를 그려보는 것이다. 스토리보드는 제품이 완성되었을 때 사용자의 경험을 만화와 같이 컷 단위의 스케치로 그리는 것을 이야기한다.

diff --git a/chapter7.md b/chapter7.md
@@ -1,13 +1,13 @@
-# 디자인 리포트 작성
+# Chapter 7: 디자인 리포트 작성
 
 문서를 통해서 커뮤니케이션을 잘하는 것은 매우 중요하다. 조직 내에 더 많은 사람들과 효율적으로 소통할 수 있고, 미래의 나를 포함한 다른 시공간의 사람들과도 소통을 할 수 있는 방법이기 때문이다.
 
-디자인 리포트에서 중요한 것은 결과물뿐만이 아니다. 왜 최종 결과물이 나오게 되었는지 그 과정을 모두 담고 있는 것이 중요하다. 그것을 통해서 다른 사람들이 프로덕트뿐만 아니라 사용자에 대해서도 배우게 되기 때문이다. 그러면 그 내용이 이후에 프로덕트를 개선할 때 많은 도움이 될 수 있고, 비슷한 타겟 사용자를 위한 다른 프로덕트를 만들 때도 도움이 될 수 있다. 또한 디자인 프로세스 측면에서도 다른 프로젝트에 적용할 수 있는 부분들도 많이 있을 것이다. 그렇기 때문에 최종 결과만큼이나 중간 결과물들과 프로세스에 대해서 설명하는 것은 중요하다.
+디자인 리포트에서 중요한 것은 결과물뿐만이 아니다. 왜 최종 결과물이 나오게 되었는지 그 과정을 모두 담고 있는 것이 중요하다. 그것을 통해서 다른 사람들이 제품뿐만 아니라 사용자에 대해서도 배우게 되기 때문이다. 그러면 그 내용이 이후에 제품을 개선할 때 많은 도움이 될 수 있고, 비슷한 타겟 사용자를 위한 다른 제품을 만들 때도 도움이 될 수 있다. 또한 디자인 프로세스 측면에서도 다른 프로젝트에 적용할 수 있는 부분들도 많이 있을 것이다. 그렇기 때문에 최종 결과만큼이나 중간 결과물들과 프로세스에 대해서 설명하는 것은 중요하다.
 
 가장 널리 사용되는 리포트의 형태는 논문일 것이다. 다음과 같은 구조가 하나의 예시가 될 수 있다.
 
-1. 서론: 프로덕트가 해결하고자 하는 문제와 배경을 설명하고 최종 프로덕트에 대한 설명을 간략히 기술한다.
-2. 도메인 지식: [chapter 1](chapter1.md)에서 조사한 도메인 지식 내용들을 설명한다. 이 프로젝트의 도메인 지식이 없는 독자들을 위한 것이다. 보통 논문에서는 _관련 연구_ 라고 부르기도 한다.
-3. 프로덕트 설명: 프로덕트가 무엇이고 어떻게 동작하는지 **자세히** 설명한다.
+1. 서론: 제품이 해결하고자 하는 문제와 배경을 설명하고 최종 제품에 대한 설명을 간략히 기술한다.
+2. 도메인 지식: [Chapter 1](chapter1.md)에서 조사한 도메인 지식 내용들을 설명한다. 이 프로젝트의 도메인 지식이 없는 독자들을 위한 것이다. 보통 논문에서는 _관련 연구_ 라고 부르기도 한다.
+3. 제품 설명: 제품이 무엇이고 어떻게 동작하는지 **자세히** 설명한다.
 4. 디자인 프로세스: 앞서 진행한 각 단계들에 대해서 중요한 부분들을 설명한다. 어떤 과정을 거쳐서 솔루션을 도출했고, 사용성 평가들은 어떤 식으로 이루어져 어떤 결과를 보였는지 기술한다. 모든 내용을 다 적기에는 양이 많을 수 있기 때문에 적당한 수준의 세부사항들을 기술한다.
-5. 논의 및 향후 계획: 논의할 부분들이 있으면 기술하고 앞으로의 프로덕트 발전 방향에 대해서 이야기한다.
+5. 논의 및 향후 계획: 논의할 부분들이 있으면 기술하고 앞으로의 제품 발전 방향에 대해서 이야기한다.

diff --git a/chapter1.md b/chapter1.md
@@ -10,7 +10,7 @@
 
 컨텍스트를 이해하는 것에는 정해진 방법이 있지는 않고 도메인과 상황에 따라서 매우 다르다. 하지만 도메인 지식을 습득하고 이해관계자를 파악하는 것은 모든 상황에서 필요하다.
 
-### 도메인 지식
+### 도메인 지식 습득하기
 
 디자인팀이 만들고자 하는 제품의 도메인 지식을 가지는 것은 중요하다. 도메인 지식이라는 것이 모호하게 느껴질 수 있는데, 제품이 놓일 산업과 업무, 사용 환경에 대한 지식을 의미한다. 다음과 같은 질문들을 던져보는 것이 도메인 지식을 쌓는 데 유용하다.
 
@@ -50,4 +50,4 @@
 
 ![경험커피의 UX 시스템 스케치](img/ux-system-sketch.png)
 
-만약 기존에 유사한 제품이 있다면 사용자 여정 스케치는 하나의 서비스를 레퍼런스로 삼아서 그릴 수 있다. 만약 새로운 제품을 만든다면 기존의 일반적인 사용자 경험을 기준으로 만들 수 있다. 예를 들어서 선물을 주고 받는 경험을 개선하는 프로덕트를 만든다면 기존의 사람들이 어떻게 선물을 주고 받는지에 대한 사용자 여정 스케치가 그려져야 한다. 사람마다 선물을 주고 받는 방법이 다르면 어떻게 다른지 궁금할 수 있다. 그런 경우에는 모든 상황을 아우르는 굉장히 일반적인 스케치를 그리거나 타겟으로 하는 사용자 군을 대상으로 스케치를 그리는 것이 좋다.
+만약 기존에 유사한 제품이 있다면 UX 시스템 스케치는 하나의 서비스를 레퍼런스로 삼아서 그릴 수 있다. 만약 새로운 제품을 만든다면 기존의 일반적인 사용자 경험을 기준으로 만들 수 있다. 예를 들어서 선물을 주고 받는 경험을 개선하는 제품을 만든다면 기존의 사람들이 어떻게 선물을 주고 받는지에 대한 UX 시스템 스케치가 그려져야 한다. 사람마다 선물을 주고 받는 방법이 다르면 어떻게 다른지 궁금할 수 있다. 그런 경우에는 모든 상황을 아우르는 굉장히 일반적인 스케치를 그리거나 타겟으로 하는 사용자 군을 대상으로 스케치를 그리는 것이 좋다.

diff --git a/chapter8.md b/chapter8.md
@@ -1,4 +1,4 @@
-# 끝없는 과정
+# Chapter 8: 끝없는 과정
 
 리포트까지 작성하고 나면 끝이라고 생각할 수 있다. 하지만 제품을 만드는 과정은 끝없는 과정이다. 제품을 만드는 과정을 단순하게 이야기하면 디자인, 구현, 평가 이 세 단계를 끊임없이 반복하는 것이다. 앞에서 리포트로 마무리 지은 단계는 한 번의 사이클을 완주한 것이라고 보면 된다. 분명 모든 단계를 수행하더라도 제품에는 다양한 사용성 또는 기술 문제가 있을 수 있다. 그럴 때마다 디자인, 구현, 평가의 단계를 반복하면서 제품을 개선해 나가야 한다.
 
